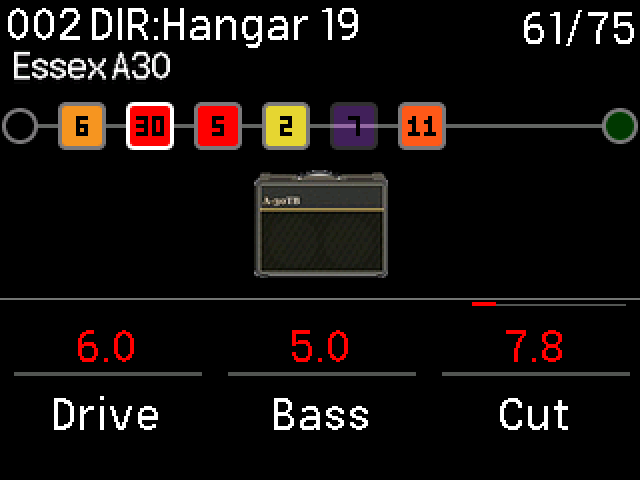
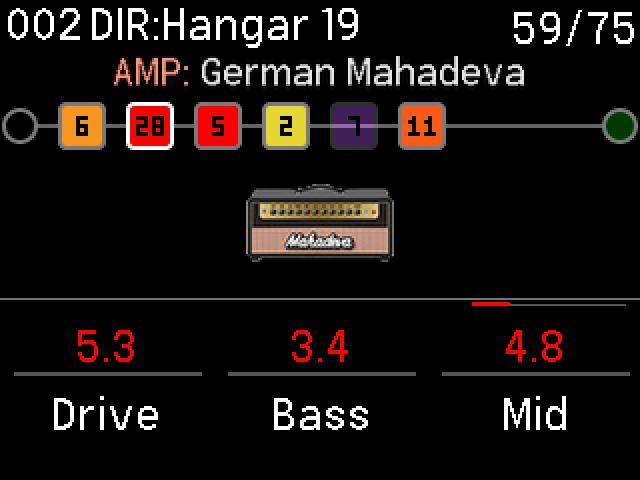
Refresh the HX Stomp model artwork screenshots

diff --git a/README.md b/README.md
@@ -10,17 +10,27 @@ This fork currently publishes screenshots and documentation. The [upstream brows
 
 ## Screenshots
 
-| Edit view · amplifier | Model browser · cab preview |
-| --- | --- |
-| ![Essex A30 artwork below the signal chain](docs/assets/model-pictures/edit-amp.png) | ![Cab list with a preview of the selected cabinet](docs/assets/model-pictures/browser-cab.png) |
+Captured directly from my HX Stomp. The centered block name uses a colored category label. On split paths the artwork fits below the lower branch.
 
-| Edit view · cab | Edit view · stomp |
+| Edit · amplifier | Edit · amp and cab |
 | --- | --- |
-| ![4x10 Garden cab artwork and mic parameters](docs/assets/model-pictures/edit-cab.png) | ![Scream808 artwork and drive parameters](docs/assets/model-pictures/edit-drive.png) |
+| ![German Mahadeva amplifier artwork and coral AMP label](docs/assets/model-pictures/edit-amp.png) | ![Interstate Zed artwork with a centered AMP+CAB label](docs/assets/model-pictures/edit-amp-cab.png) |
 
-| Edit view · reverb | Edit view · NAM A2 Lite |
+| Edit · cab | Model browser · cab preview |
 | --- | --- |
-| ![Dynamic Ambience artwork and the parameter page indicator](docs/assets/model-pictures/edit-reverb.png) | ![NAM A2 Lite capture name and enlarged TONE3000 logo](docs/assets/model-pictures/edit-nam-tone3000.png) |
+| ![4x12 1960A T75 cabinet artwork and microphone controls](docs/assets/model-pictures/edit-cab.png) | ![Cabinet illustration alongside the highlighted 4x12 1960A T75](docs/assets/model-pictures/browser-cab.png) |
+
+| Edit · drive | Edit · delay |
+| --- | --- |
+| ![Teemah! drive pedal with an amber DIST label](docs/assets/model-pictures/edit-drive.png) | ![Ducked Delay artwork with a green DELAY label](docs/assets/model-pictures/edit-delay.png) |
+
+| Edit · reverb | Edit · compressor |
+| --- | --- |
+| ![1963 Spring Reverb unit with a peach REVERB label](docs/assets/model-pictures/edit-reverb.png) | ![LA Studio Comp artwork with a yellow DYNAMICS label](docs/assets/model-pictures/edit-compressor.png) |
+
+| Edit · NAM A2 Lite | Edit · split path |
+| --- | --- |
+| ![Selected NAM capture name and TONE3000 logo](docs/assets/model-pictures/edit-nam-tone3000.png) | ![Synth String artwork centered below the lower signal branch](docs/assets/model-pictures/edit-split.png) |
 
 ## Boot splash
 
